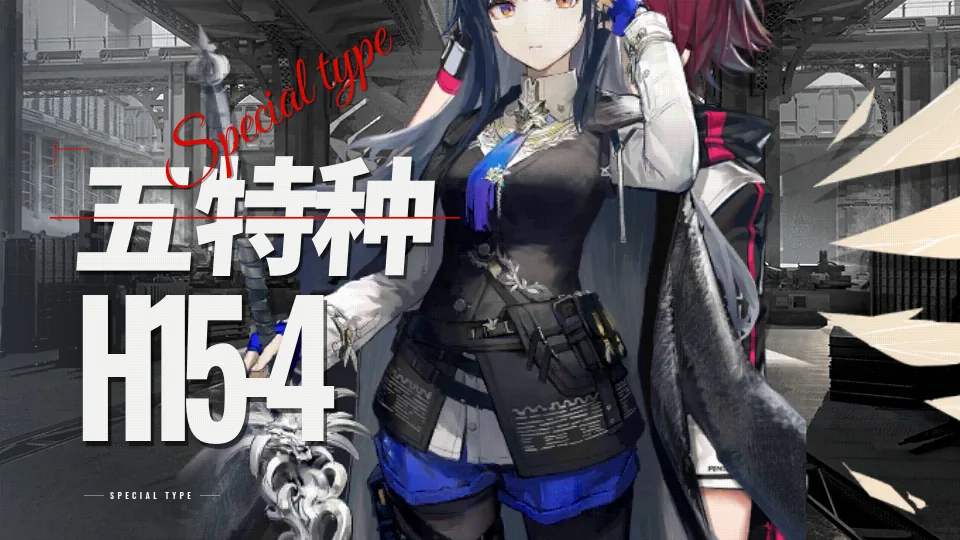
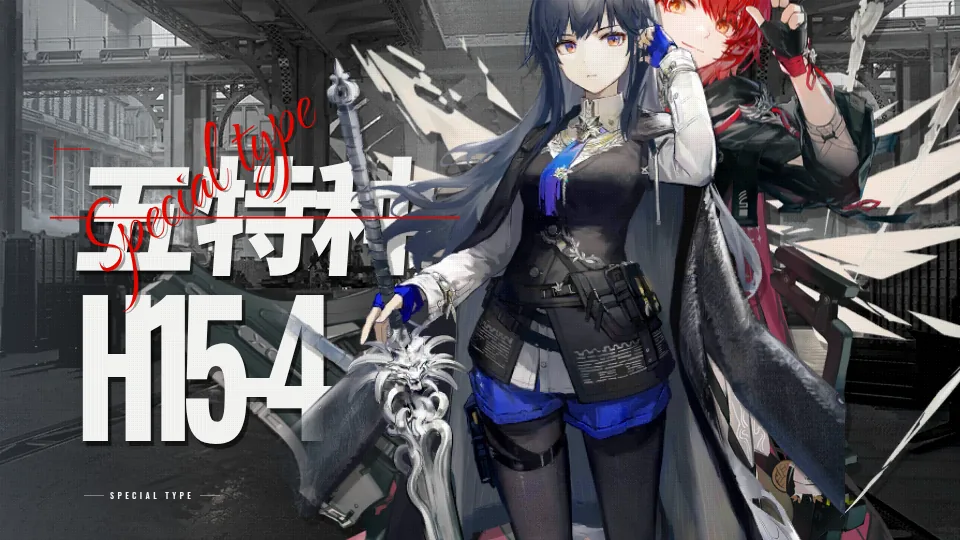
feat(specialist): 后排换新约能天使并重排花体
WHAT: 立绘B 改成新约能天使精零，收紧双人站位，红花体改细签名并斜叠进标题
WHY: 原图后排是新约能天使；上一版两人散、Great Vibes 太正式且浮在标题上方
HOW: 用 char_1041_angel2_1；前排压关卡右缘、后排从肩后探出；花体换 The Nautigal，从「五」斜划过「特种」；重导缩略图

diff --git a/src/templates/Specialist.tsx b/src/templates/Specialist.tsx
@@ -10,7 +10,7 @@ import { OperatorLayer } from "./OperatorLayer";
 
 const RED = "#e10600";
 const WHITE = "#f4f4f2";
-const ANGEL_ART = "char_103_angel_1";
+const ANGEL_ART = "char_1041_angel2_1";
 
 function BlockWord({ text }: { text: string }) {
   return (
@@ -77,37 +77,37 @@ export function Specialist(props: CoverRenderProps) {
       <BgDimLayer on={props.bgDim} amount={props.bgDimAmount ?? 14} at="22% 58%" />
       <div className="pointer-events-none absolute inset-y-0 left-0 w-[38%] bg-gradient-to-r from-[#8ea0b4]/28 via-[#c5ced6]/10 to-transparent" />
 
-      <div className="absolute top-[-18%] right-[-2%] bottom-[-16%] left-[50%] z-[2]">
+      <div className="absolute top-[-22%] right-[-6%] bottom-[-20%] left-[40%] z-[2]">
         <OperatorLayer
           {...props}
           layerId="operator-b"
           imageUrl={layerImage(layerB, ANGEL_ART)}
-          imageScale={layerB?.scale ?? 220}
-          imageX={layerB?.imageX ?? 16}
-          imageY={layerB?.imageY ?? 8}
-          transformOrigin="50% 12%"
+          imageScale={layerB?.scale ?? 188}
+          imageX={layerB?.imageX ?? 72}
+          imageY={layerB?.imageY ?? -12}
+          transformOrigin="46% 8%"
           objectFit="contain"
-          objectPosition="50% 8%"
+          objectPosition="46% 5%"
           emptyHint="立绘B"
           className="h-full w-full object-contain"
           onImageDrag={(dx, dy) => {
             if (!cover || !layerB) return;
             cover.patchLayer("operator-b", {
-              imageX: (layerB.imageX ?? 16) + dx,
-              imageY: (layerB.imageY ?? 8) + dy,
+              imageX: (layerB.imageX ?? 72) + dx,
+              imageY: (layerB.imageY ?? -12) + dy,
             });
           }}
         />
       </div>
 
-      <div className="absolute top-[-16%] right-[16%] bottom-[-14%] left-[18%] z-[3]">
+      <div className="absolute top-[-4%] right-[12%] bottom-[-2%] left-[28%] z-[5]">
         <OperatorLayer
           {...props}
           fadeLeft
-          fadeLeftSolid={8}
-          transformOrigin="50% 10%"
+          fadeLeftSolid={10}
+          transformOrigin="50% 12%"
           objectFit="contain"
-          objectPosition="50% 8%"
+          objectPosition="50% 10%"
           className="h-full w-full object-contain"
         />
       </div>
@@ -147,11 +147,14 @@ export function Specialist(props: CoverRenderProps) {
         <CoverElement
           id="script"
           defaultFont="script"
-          defaultFontSize={136}
-          className="absolute top-[292px] left-[328px] z-[9] whitespace-nowrap"
-          style={{ color: scriptColor, lineHeight: 1 }}
+          defaultFontSize={186}
+          className="absolute top-[398px] left-[168px] z-[9] whitespace-nowrap"
+          style={{ color: scriptColor, lineHeight: 0.78 }}
         >
-          <span className="relative inline-block" style={{ transform: "rotate(-33deg)", transformOrigin: "left center" }}>
+          <span
+            className="relative inline-block origin-left"
+            style={{ transform: "rotate(-36deg) scaleY(1.08)", transformOrigin: "12% 60%" }}
+          >
             <span aria-hidden className="pointer-events-none absolute top-[0.03em] left-[0.02em] text-black/35">
               {script}
             </span>

diff --git a/src/data/seeds/specialist.ts b/src/data/seeds/specialist.ts
@@ -6,19 +6,19 @@ export const specialistLayers: Layer[] = [
   imageLayer({
     id: "operator-b",
     label: "立绘B",
-    x: 860,
+    x: 840,
     y: -40,
     w: 1200,
     h: 1080,
-    scale: 220,
-    imageX: 16,
-    imageY: 8,
+    scale: 188,
+    imageX: 72,
+    imageY: -12,
     objectFit: "contain",
-    objectPosition: "50% 8%",
-    transformOrigin: "50% 12%",
-    operatorId: "char_103_angel",
-    artId: "char_103_angel_1",
-    imageUrl: artUrl("char_103_angel_1"),
+    objectPosition: "46% 5%",
+    transformOrigin: "46% 8%",
+    operatorId: "char_1041_angel2",
+    artId: "char_1041_angel2_1",
+    imageUrl: artUrl("char_1041_angel2_1"),
   }),
   textLayer({
     id: "squad",
@@ -46,6 +46,21 @@ export const specialistLayers: Layer[] = [
     autoSize: "stageCode",
     color: "#ffffff",
   }),
+  imageLayer({
+    id: "operator",
+    label: "立绘",
+    x: 500,
+    y: 0,
+    w: 1400,
+    h: 1080,
+    objectFit: "contain",
+    objectPosition: "50% 10%",
+    transformOrigin: "50% 12%",
+    fadeRight: false,
+    operatorId: "char_1028_texas2",
+    artId: "char_1028_texas2_1",
+    imageUrl: artUrl("char_1028_texas2_1"),
+  }),
   boxLayer({
     id: "ruler",
     label: "红线",
@@ -59,15 +74,15 @@ export const specialistLayers: Layer[] = [
   textLayer({
     id: "script",
     label: "花体标",
-    x: 328,
-    y: 292,
-    w: 820,
-    h: 140,
+    x: 168,
+    y: 398,
+    w: 920,
+    h: 180,
     bind: "signature",
     font: "script",
-    fontSize: 136,
+    fontSize: 186,
     color: "#e10600",
-    rotation: -33,
+    rotation: -36,
   }),
   boxLayer({
     id: "tri",
@@ -91,20 +106,5 @@ export const specialistLayers: Layer[] = [
     fontSize: 16,
     letterSpacing: 6,
     color: "#f2f2f2",
-  }),
-  imageLayer({
-    id: "operator",
-    label: "立绘",
-    x: 520,
-    y: 0,
-    w: 1400,
-    h: 1080,
-    objectFit: "contain",
-    objectPosition: "50% 8%",
-    transformOrigin: "50% 10%",
-    fadeRight: false,
-    operatorId: "char_1028_texas2",
-    artId: "char_1028_texas2_1",
-    imageUrl: artUrl("char_1028_texas2_1"),
   }),
 ];

diff --git a/src/index.css b/src/index.css
@@ -9,13 +9,15 @@
 @import "@fontsource/noto-serif-sc/chinese-simplified-700.css";
 @import "@fontsource/noto-serif-sc/chinese-simplified-900.css";
 @import "@fontsource/great-vibes/400.css";
+@import "@fontsource/the-nautigal/400.css";
+@import "@fontsource/alex-brush/400.css";
 
 @theme {
   --font-sans: "PingFang SC", "HarmonyOS Sans", "Microsoft YaHei", "Noto Sans SC", sans-serif;
   --font-display: "Oswald", "Noto Sans SC", sans-serif;
   --font-cn: "Noto Sans SC", "PingFang SC", sans-serif;
   --font-serif: "Noto Serif SC", "Source Han Serif SC", "Songti SC", "STSong", serif;
-  --font-script: "Great Vibes", "Segoe Script", "Apple Chancery", cursive;
+  --font-script: "The Nautigal", "Alex Brush", "Great Vibes", "Segoe Script", cursive;
   --color-ink: #f1f2f3;
   --color-panel: #ffffff;
   --color-raised: #f6f7f8;
@@ -227,7 +229,10 @@ input[type="checkbox"] {
   font-family: var(--font-script);
   font-weight: 400;
   font-style: normal;
-  letter-spacing: 0.02em;
+  letter-spacing: 0.01em;
+  text-shadow:
+    0 1px 0 rgb(80 0 0 / 0.35),
+    0 0 18px rgb(225 6 0 / 0.28);
 }
 
 .ef-halftone {

diff --git a/src/data/templates.ts b/src/data/templates.ts
@@ -200,9 +200,9 @@ export const TEMPLATES: TemplateMeta[] = [
     markLabel: "小标",
     sampleMark: "SPECIAL TYPE",
     sampleSignature: "Special type",
-    defaultImageScale: 228,
-    defaultImageX: 24,
-    defaultImageY: 8,
+    defaultImageScale: 192,
+    defaultImageX: 8,
+    defaultImageY: 24,
     showBackground: true,
     showBgDim: true,
     defaultBgDim: false,

diff --git a/references/secret-plan/INDEX.md b/references/secret-plan/INDEX.md
@@ -25,7 +25,7 @@
 
 字和立绘对坐；立绘仍应低于全部正文。视频标题里的词（「吹一波琳琅诗怀雅」「终结循环时代」）不等于封面上的字。
 
-模板 `specialist` 按 `01_BV1TjbDz1Ejx.jpg` 抄骨架：左「五特种」+ 更大更挤的 H15-4，红细线穿过标题中部，大红花体 Special type 斜叠在「特种」上，前缄默德克萨斯精零、后能天使精零比耶（精二立绘带大特效，会盖住后面的人）。`02` 单人可当核对；`04` 左右对调，不要当默认骨架。
+模板 `specialist` 按 `01_BV1TjbDz1Ejx.jpg` 抄骨架：左「五特种」+ 更大更挤的 H15-4，红细线穿过标题中部，大红花体 Special type 斜叠在「特种」上，前缄默德克萨斯精零、后新约能天使精零比耶（精二立绘带大特效，会盖住后面的人）。`02` 单人可当核对；`04` 左右对调，不要当默认骨架。
 
 ## 参考（4）
 

diff --git a/README.md b/README.md
@@ -132,7 +132,7 @@ npm run dev
 - 花体标（默认 Special type，Great Vibes 斜叠在阵容上）
 - 小标（默认 SPECIAL TYPE，留空则不显示）
 - 背景预设（默认军械厂，高曝灰白）
-- 默认立绘：前缄默德克萨斯精零，后能天使精零（精二特效会挡住后面的人）
+- 默认立绘：前缄默德克萨斯精零，后新约能天使精零（精二特效会挡住后面的人）
 
 构图主参考：`references/secret-plan/01_BV1TjbDz1Ejx.jpg`。不搬莱茵组标和封面署名。
 
